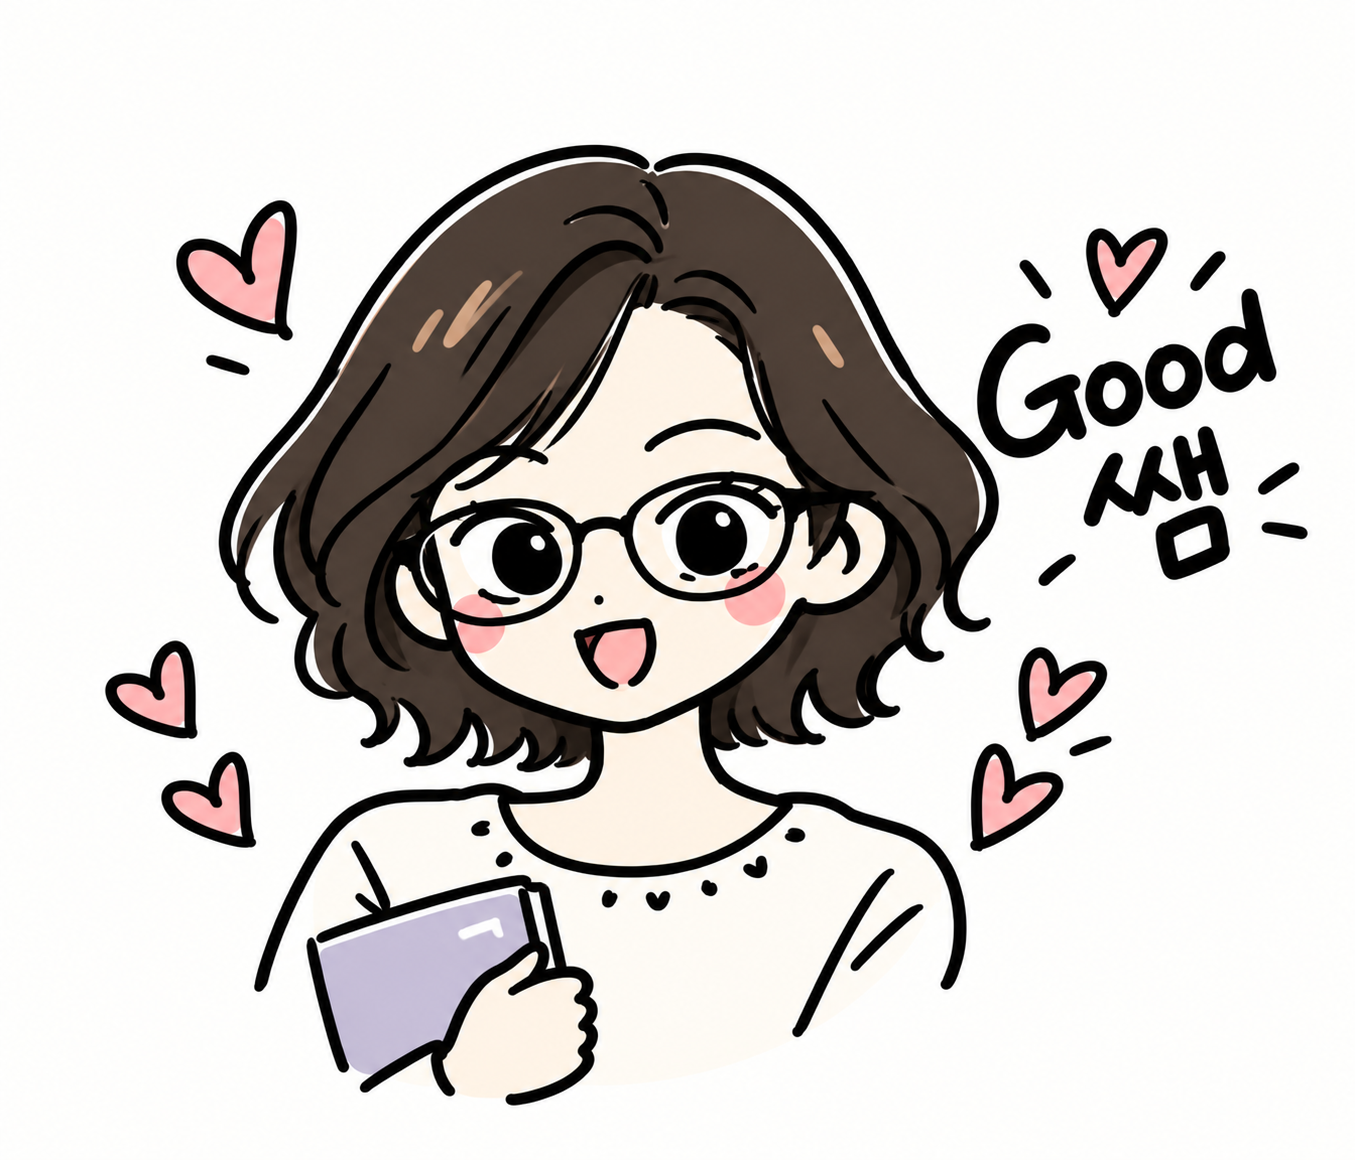
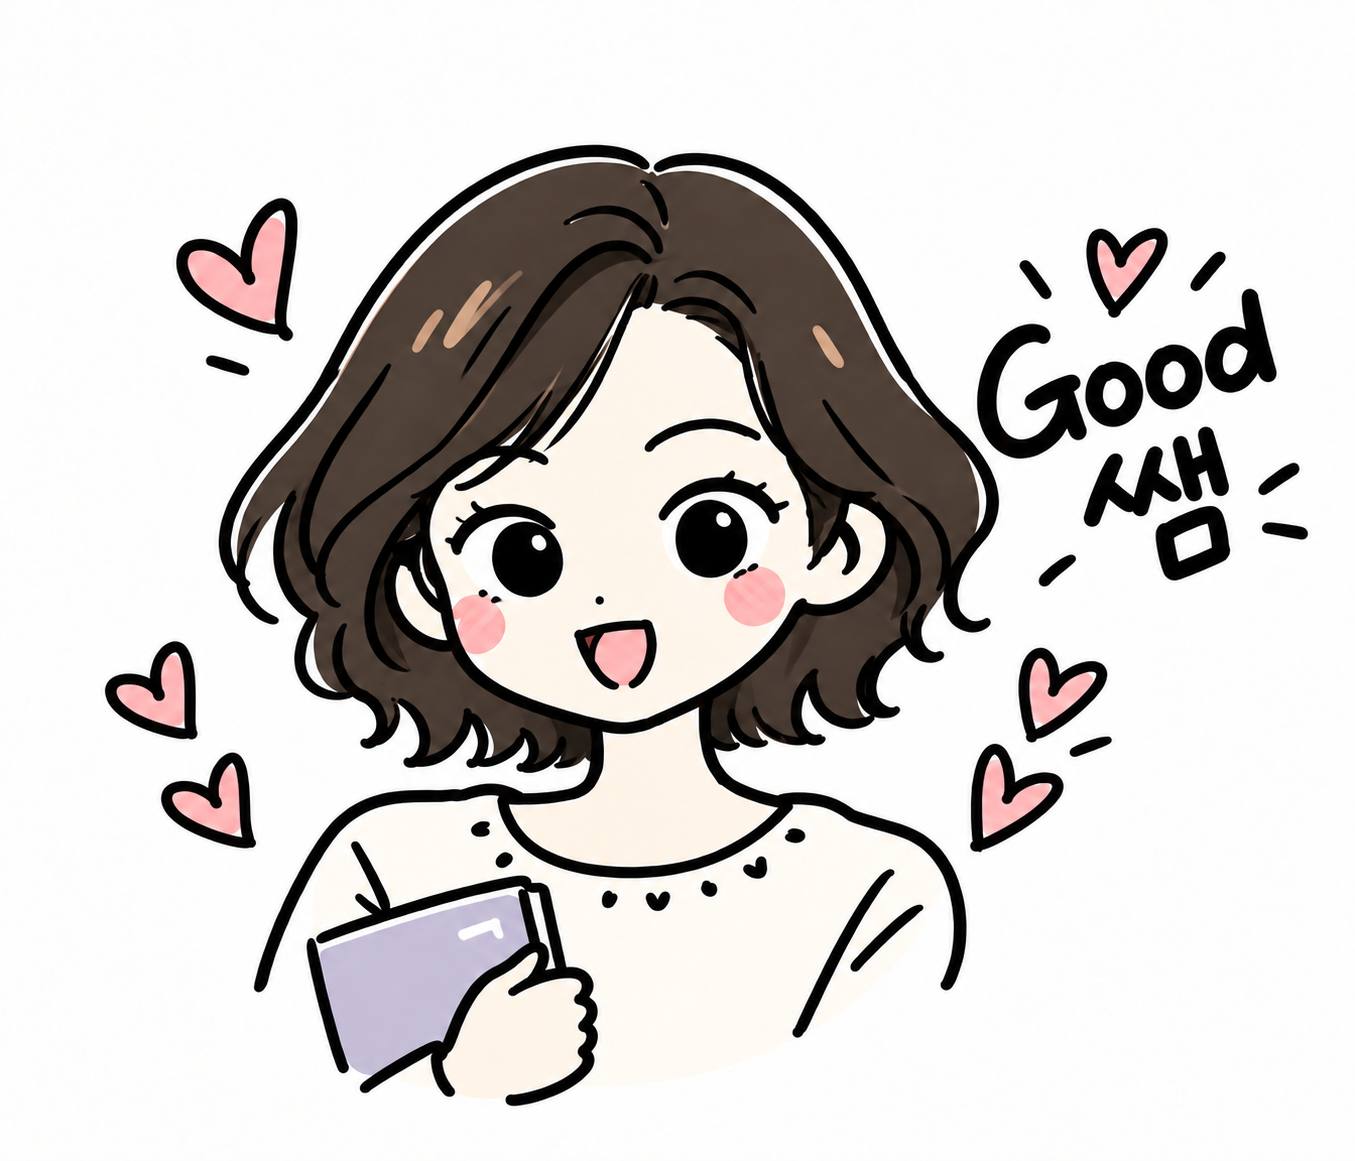
프로필 페이지의 인용구 스타일 개선 및 HTML 렌더링 방식 변경

Changed region(s): [[0.31, 0.4034, 0.6199, 0.5586], [0.4339, 0.5586, 0.4649, 0.5897], [0.186, 0.1552, 0.217, 0.1862]]

diff --git a/streamlit_app.py b/streamlit_app.py
@@ -83,11 +83,16 @@ h1, h2, h3, h4 { color: #263a30 !important; word-break: keep-all; }
     border: 1px solid #dde5dd; border-radius: 999px;
     padding: .32rem .8rem; margin: .15rem .3rem .3rem 0; font-size: .88rem;
 }
-.quote-banner {
-    background: #eaf0e8; border-left: 5px solid #869d83;
-    border-radius: 0 18px 18px 0; padding: 1.35rem 1.5rem;
-    margin: 1.4rem 0; color: #3a5541;
-    font-size: 1.08rem; line-height: 1.8; word-break: keep-all;
+.profile-quote {
+    margin: .9rem .15rem 0;
+    padding: .85rem .9rem;
+    border-top: 1px solid #d9e2d7;
+    color: #526358;
+    font-size: .94rem;
+    font-style: italic;
+    line-height: 1.8;
+    text-align: center;
+    word-break: keep-all;
 }
 [data-testid="stMetric"] {
     background: rgba(255,255,255,.86); border: 1px solid #e5e9e1;
@@ -173,7 +178,7 @@ h1, h2, h3, h4 { color: #263a30 !important; word-break: keep-all; }
 .footer { text-align: center; color: #626e65; font-size: .86rem; padding: .8rem 0; }
 @media (max-width: 720px) {
     .block-container { padding: 1.5rem 1rem; }
-    .quote-banner { font-size: 1rem; padding: 1rem; }
+    .profile-quote { font-size: .9rem; padding: .75rem .5rem; }
     .info-card { padding: 1.1rem; }
     .school-grid { grid-template-columns: repeat(2, minmax(0, 1fr)); }
     .topic-grid { grid-template-columns: 1fr; }
@@ -232,6 +237,9 @@ image_col, intro_col = st.columns([1, 1.85], gap="large", vertical_alignment="ce
 with image_col:
     with st.container(key="profile_image"):
         show_profile_image()
+    render_html(
+        f'<div class="profile-quote">“{escape(PROFILE["motto"])}”</div>'
+    )
 
 with intro_col:
     render_html('<div class="eyebrow">MATH × AI · GOOD TEACHER</div>')
@@ -244,7 +252,6 @@ with intro_col:
     )
     tags(["수학교육", "AI·디지털 교육", "교사 성장"])
 
-render_html(f'<div class="quote-banner">“{escape(PROFILE["motto"])}”</div>')
 metric_cols = st.columns(2)
 metric_cols[0].metric("교육 경력", PROFILE["experience"])
 metric_cols[1].metric("전문 분야", "수학 · AI 교육")
